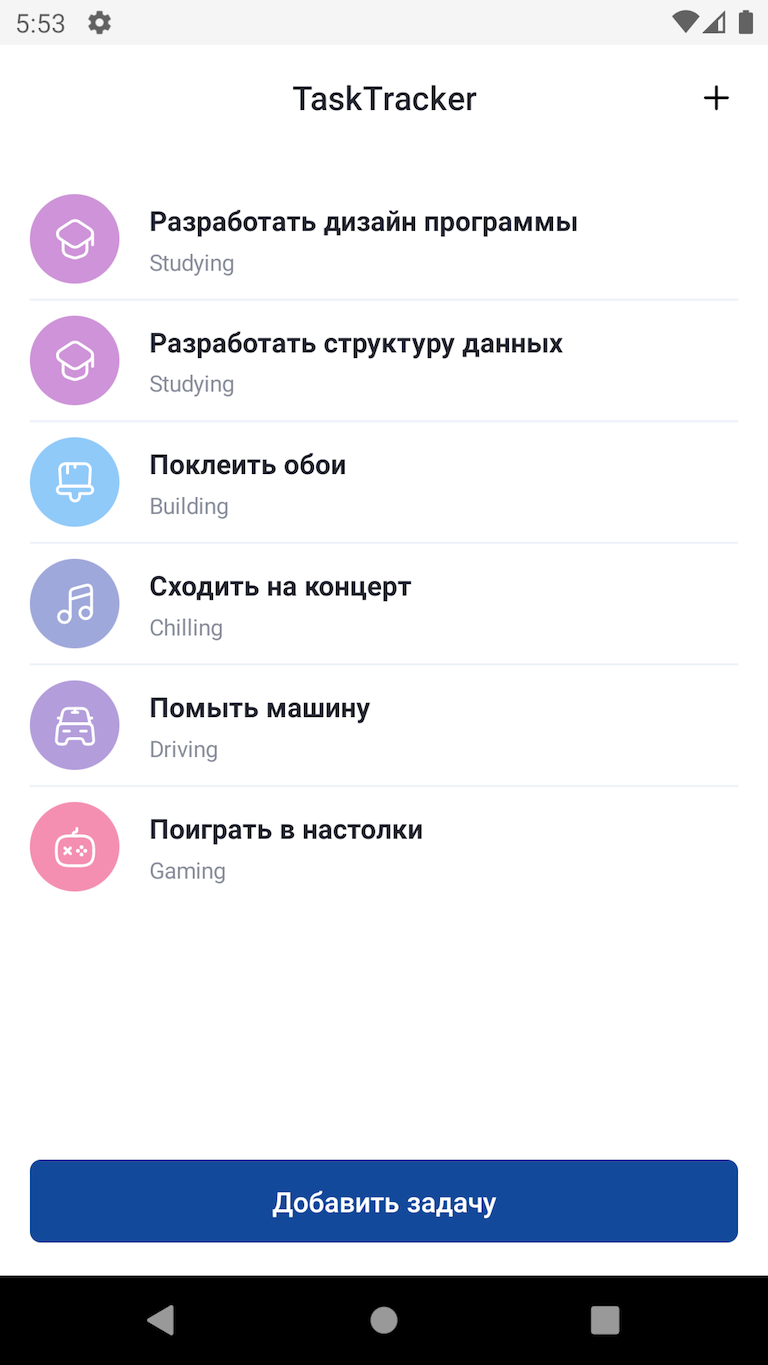
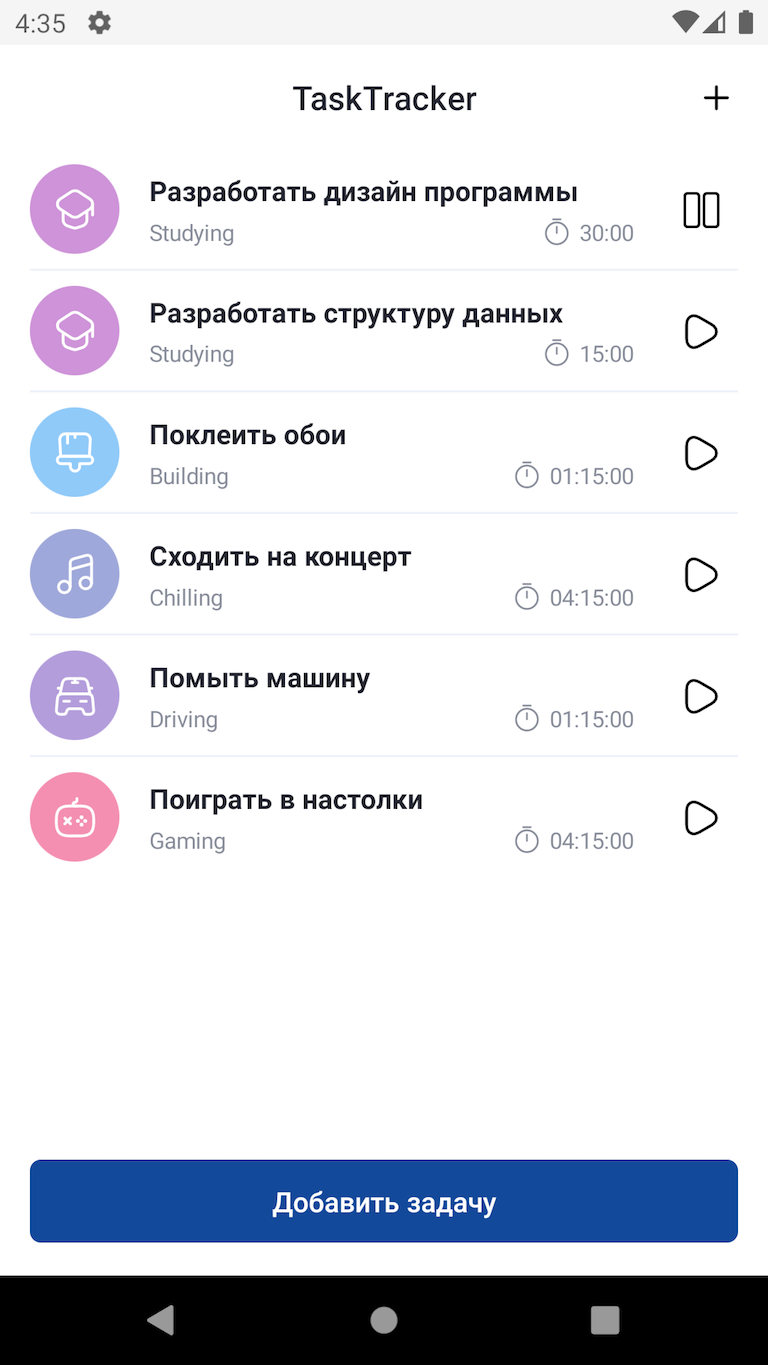
added toggle task button

diff --git a/app/src/main/java/com/dmdev/tasktracker/ui/home/Home.kt b/app/src/main/java/com/dmdev/tasktracker/ui/home/Home.kt
@@ -1,6 +1,7 @@
 package com.dmdev.tasktracker.ui.home
 
 import androidx.compose.foundation.background
+import androidx.compose.foundation.clickable
 import androidx.compose.foundation.layout.*
 import androidx.compose.foundation.lazy.LazyColumn
 import androidx.compose.foundation.shape.CircleShape
@@ -16,7 +17,6 @@ import androidx.compose.ui.res.stringResource
 import androidx.compose.ui.text.style.TextOverflow
 import androidx.compose.ui.unit.dp
 import com.dmdev.tasktracker.R
-import com.dmdev.tasktracker.data.domain.Task
 import com.dmdev.tasktracker.navigation.NavState
 import com.dmdev.tasktracker.ui.theme.*
 
@@ -46,9 +46,10 @@ fun Home(navState: NavState, vm: HomeViewModel) {
                     LoadingBox()
                 }
                 is HomeViewState.Success -> {
-                    TaskList(value.items) {
-                        navState.navigateToTaskEdit()
-                    }
+                    TaskList(
+                        value.items,
+                        onItemClicked = { navState.navigateToTaskEdit() },
+                        onControlButtonClicked = { vm.toggleTask(it) })
                 }
                 is HomeViewState.Error -> {
                     ErrorBox(
@@ -66,22 +67,29 @@ fun Home(navState: NavState, vm: HomeViewModel) {
 @Composable
 fun TaskList(
     items: List<TaskModel>,
-    onItemClicked: (TaskModel?) -> Unit
+    onItemClicked: (TaskModel?) -> Unit,
+    onControlButtonClicked: (TaskModel) -> Unit
 ) {
-    Column(modifier = Modifier.padding(16.dp)) {
+    Column {
         LazyColumn(
             verticalArrangement = Arrangement.spacedBy(0.dp),
             modifier = Modifier
                 .weight(1f)
         ) {
             items(items.count()) { index ->
-                TaskItem(items[index], onItemClicked)
+                TaskItem(items[index], onItemClicked, onControlButtonClicked)
                 if (index < items.count() - 1) {
-                    Divider(color = BaseTheme.colors.bgGray)
+                    Divider(
+                        color = BaseTheme.colors.bgGray,
+                        modifier = Modifier.padding(horizontal = 16.dp)
+                    )
                 }
             }
         }
-        ButtonTextCenter(text = "Добавить задачу") { onItemClicked(null) }
+        ButtonTextCenter(
+            text = stringResource(R.string.button_add_task),
+            modifier = Modifier.padding(16.dp)
+        ) { onItemClicked(null) }
     }
 }
 
@@ -89,10 +97,14 @@ fun TaskList(
 @Composable
 fun TaskItem(
     item: TaskModel,
-    onItemClicked: (TaskModel) -> Unit
+    onItemClicked: (TaskModel) -> Unit,
+    onControlButtonClicked: (TaskModel) -> Unit
 ) {
     Row(
-        modifier = Modifier.height(64.dp),
+        modifier = Modifier
+            .height(64.dp)
+            .clickable { onItemClicked(item) }
+            .padding(horizontal = 16.dp),
         verticalAlignment = Alignment.CenterVertically
     ) {
         Box(
@@ -110,7 +122,9 @@ fun TaskItem(
                     .align(Alignment.Center)
             )
         }
-        Column {
+        Column(
+            modifier = Modifier.weight(1f)
+        ) {
             Text(
                 text = item.name,
                 style = BaseTheme.typography.text15B,
@@ -126,7 +140,15 @@ fun TaskItem(
                     color = BaseTheme.colors.textGray,
                     maxLines = 1,
                     overflow = TextOverflow.Clip,
-                    modifier = Modifier.padding(start = 16.dp, end = 16.dp).weight(1f)
+                    modifier = Modifier
+                        .padding(start = 16.dp, end = 16.dp)
+                        .weight(1f)
+                )
+                Icon(
+                    painter = painterResource(id = R.drawable.ic_timer),
+                    contentDescription = stringResource(R.string.hint_elapsed_time),
+                    tint = BaseTheme.colors.textGray,
+                    modifier = Modifier.size(16.dp)
                 )
                 Text(
                     text = item.elapsedTime,
@@ -134,9 +156,33 @@ fun TaskItem(
                     color = BaseTheme.colors.textGray,
                     maxLines = 1,
                     overflow = TextOverflow.Clip,
-                    modifier = Modifier.padding(start = 16.dp, end = 16.dp)
+                    modifier = Modifier.padding(start = 4.dp, end = 16.dp)
                 )
             }
+        }
+        IconButton(
+            onClick = { onControlButtonClicked(item) },
+            modifier = Modifier
+                .padding(8.dp)
+                .size(24.dp)
+        ) {
+            Icon(
+                painter = painterResource(
+                    id = if (item.endedAt == null) {
+                        R.drawable.ic_pause
+                    } else {
+                        R.drawable.ic_play
+                    }
+                ),
+                contentDescription = stringResource(
+                    id = if (item.endedAt == null) {
+                        R.string.hint_pause_task
+                    } else {
+                        R.string.hint_start_task
+                    }
+                ),
+                modifier = Modifier.size(24.dp)
+            )
         }
     }
 }

diff --git a/app/src/main/java/com/dmdev/tasktracker/ui/home/HomeViewModel.kt b/app/src/main/java/com/dmdev/tasktracker/ui/home/HomeViewModel.kt
@@ -40,4 +40,8 @@ class HomeViewModel @Inject constructor(
     fun reloadTasks() {
         loadTasks()
     }
+
+    fun toggleTask(item: TaskModel) {
+
+    }
 }
